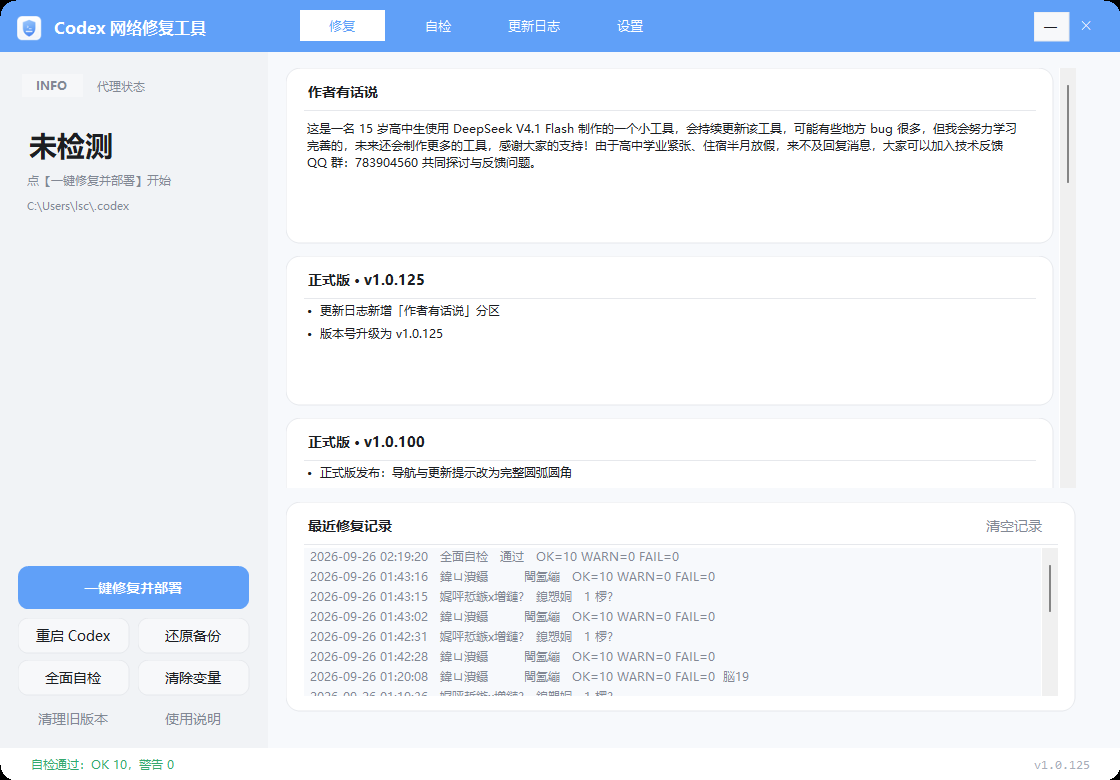
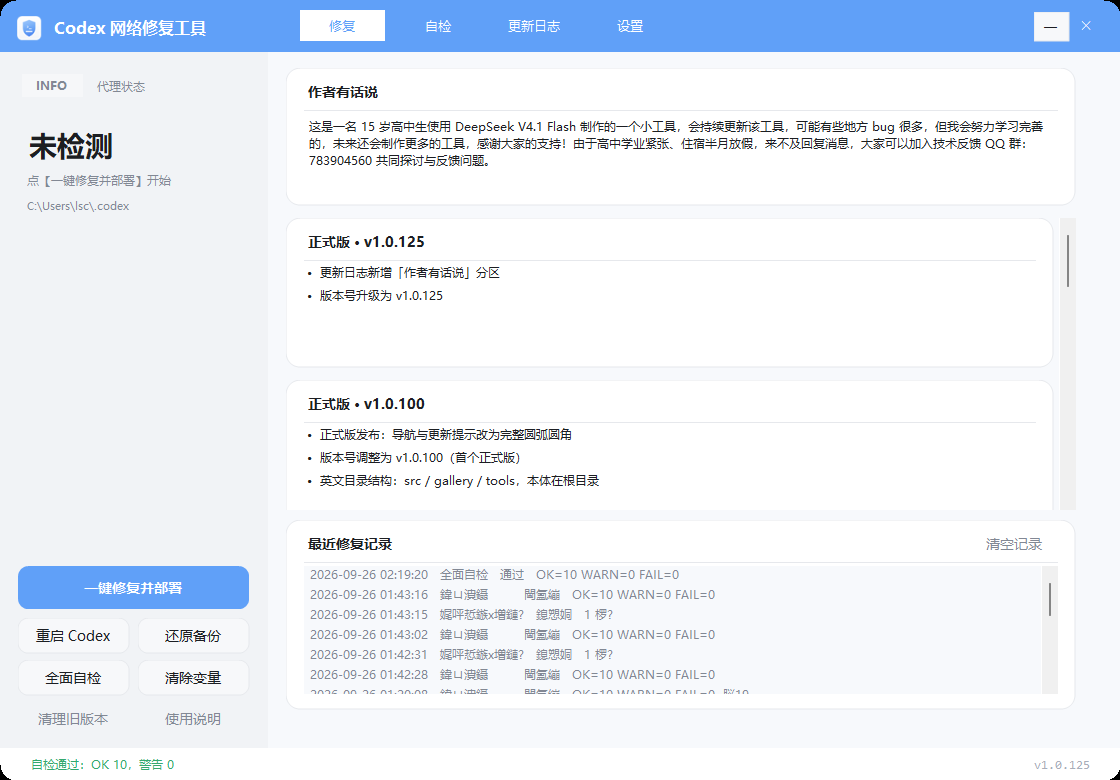
feat: 作者有话说分区固定在更新日志页顶部（独立于版本列表滚动）

diff --git a/src/Program.cs b/src/Program.cs
@@ -529,26 +529,26 @@ namespace CodexNetFix
         void BuildAboutPage()
         {
             FlowLayoutPanel flow = new FlowLayoutPanel();
-            flow.Left = 0; flow.Top = 0; flow.Width = 790; flow.Height = 420;
+            flow.Left = 0; flow.Top = 150; flow.Width = 790; flow.Height = 292;
             flow.AutoScroll = true; flow.FlowDirection = FlowDirection.LeftToRight; flow.WrapContents = true;
             flow.Tag = "flowbg"; flow.Name = "versionFlow";
+            foreach (VersionLog v in AppVersion.All())
 
-            // 作者有话说（置顶显示）
-            RoundPanel author = MkCard("作者有话说", 0, 0, 768, 176);
-            author.Margin = new Padding(0, 0, 0, 12);
-            Label note = MkLabel(AppVersion.AuthorNote(), 9f, FontStyle.Regular, 18, 52, "opt");
-            note.AutoSize = false; note.Width = 726; note.Height = 112;
-            author.Controls.Add(note);
-            flow.Controls.Add(author);            foreach (VersionLog v in AppVersion.All())
             {
                 RoundPanel c = MkCard((v.Bate ? "测试版 · " : "正式版 · ") + v.Version, 0, 0, 768, 150);
                 c.Margin = new Padding(0, 0, 0, 12);
                 FillBullets(c, v.Items, 726, 21);
                 flow.Controls.Add(c);
             }
+            // 作者有话说：固定钉在更新日志页顶部（不随版本列表滚动）
+            RoundPanel authorFixed = MkCard("作者有话说", 0, 0, 790, 138);
+            Label noteFixed = MkLabel(AppVersion.AuthorNote(), 9f, FontStyle.Regular, 20, 50, "opt");
+            noteFixed.AutoSize = false; noteFixed.Width = 748; noteFixed.Height = 80;
+            authorFixed.Controls.Add(noteFixed);
+            pageAbout.Controls.Add(authorFixed);
             pageAbout.Controls.Add(flow);
 
-            cardHistory = MkCard("最近修复记录", 0, 434, 790, 210);
+            cardHistory = MkCard("最近修复记录", 0, 452, 790, 190);
             RoundButton clr = new RoundButton();
             clr.Text = "清空记录"; clr.Ghost = true;
             clr.Width = 86; clr.Height = 28; clr.Left = cardHistory.Width - 104; clr.Top = 10;
@@ -563,7 +563,7 @@ namespace CodexNetFix
             cardHistory.Controls.Add(clr);
 
             FlowLayoutPanel h = new FlowLayoutPanel();
-            h.Left = 18; h.Top = 46; h.Width = 754; h.Height = 148;
+            h.Left = 18; h.Top = 46; h.Width = 754; h.Height = 128;
             h.AutoScroll = true; h.FlowDirection = FlowDirection.TopDown; h.WrapContents = false;
             h.Tag = "flowbg"; h.Name = "historyList";
             h.Resize += delegate { foreach (Control c in h.Controls) c.Width = h.ClientSize.Width - 8; };

diff --git a/CHANGELOG.md b/CHANGELOG.md
@@ -4,7 +4,8 @@
 
 ## v1.0.125
 
-- 更新日志页新增「**作者有话说**」分区（作者的话 + 技术反馈 QQ 群：783904560）
+- 更新日志页新增「**作者有话说**」分区，并**固定在页面顶部**（不随版本列表滚动，未来新增版本不受影响）
+- 分区内容：作者的话 + 技术反馈 QQ 群：783904560
 - 版本标识修正：`v1.x` 显示为正式版，`v26.9.26.*` 显示为测试版（bate）
 - 版本号升级为 v1.0.125
 
